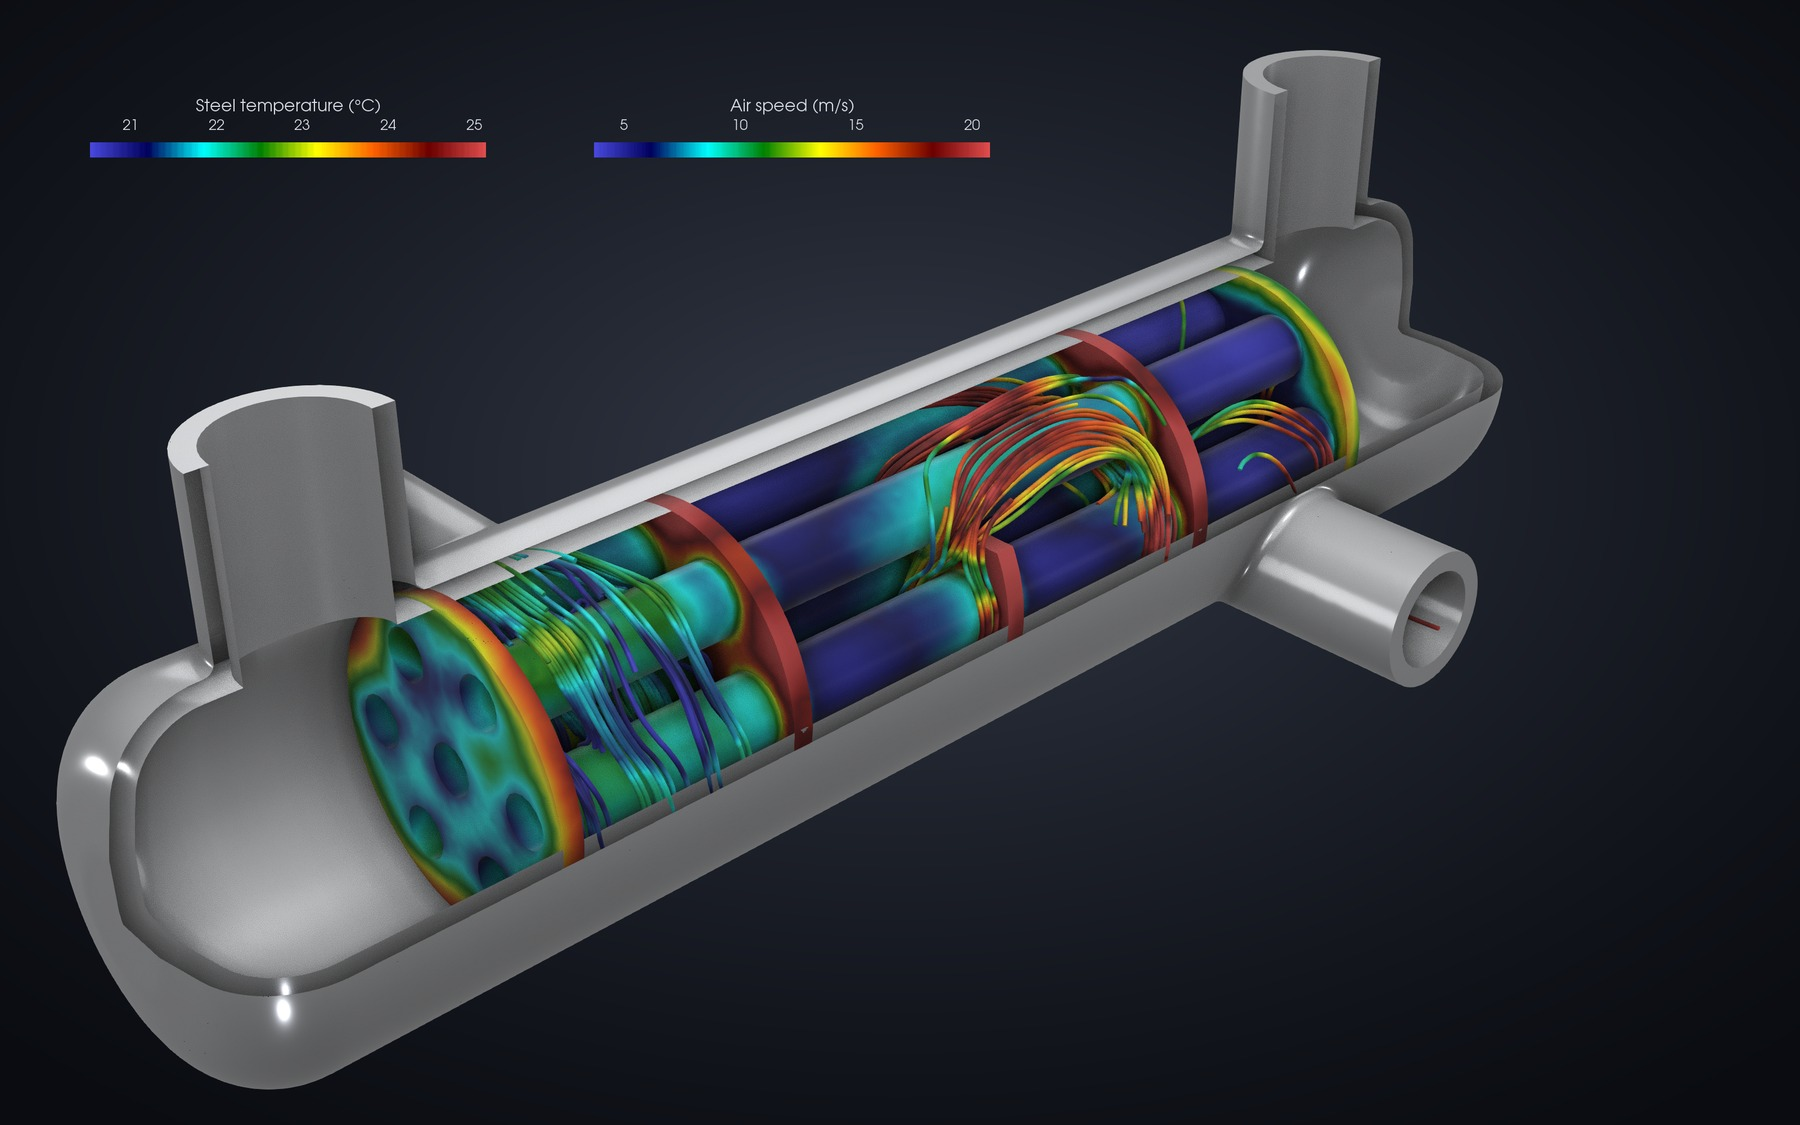
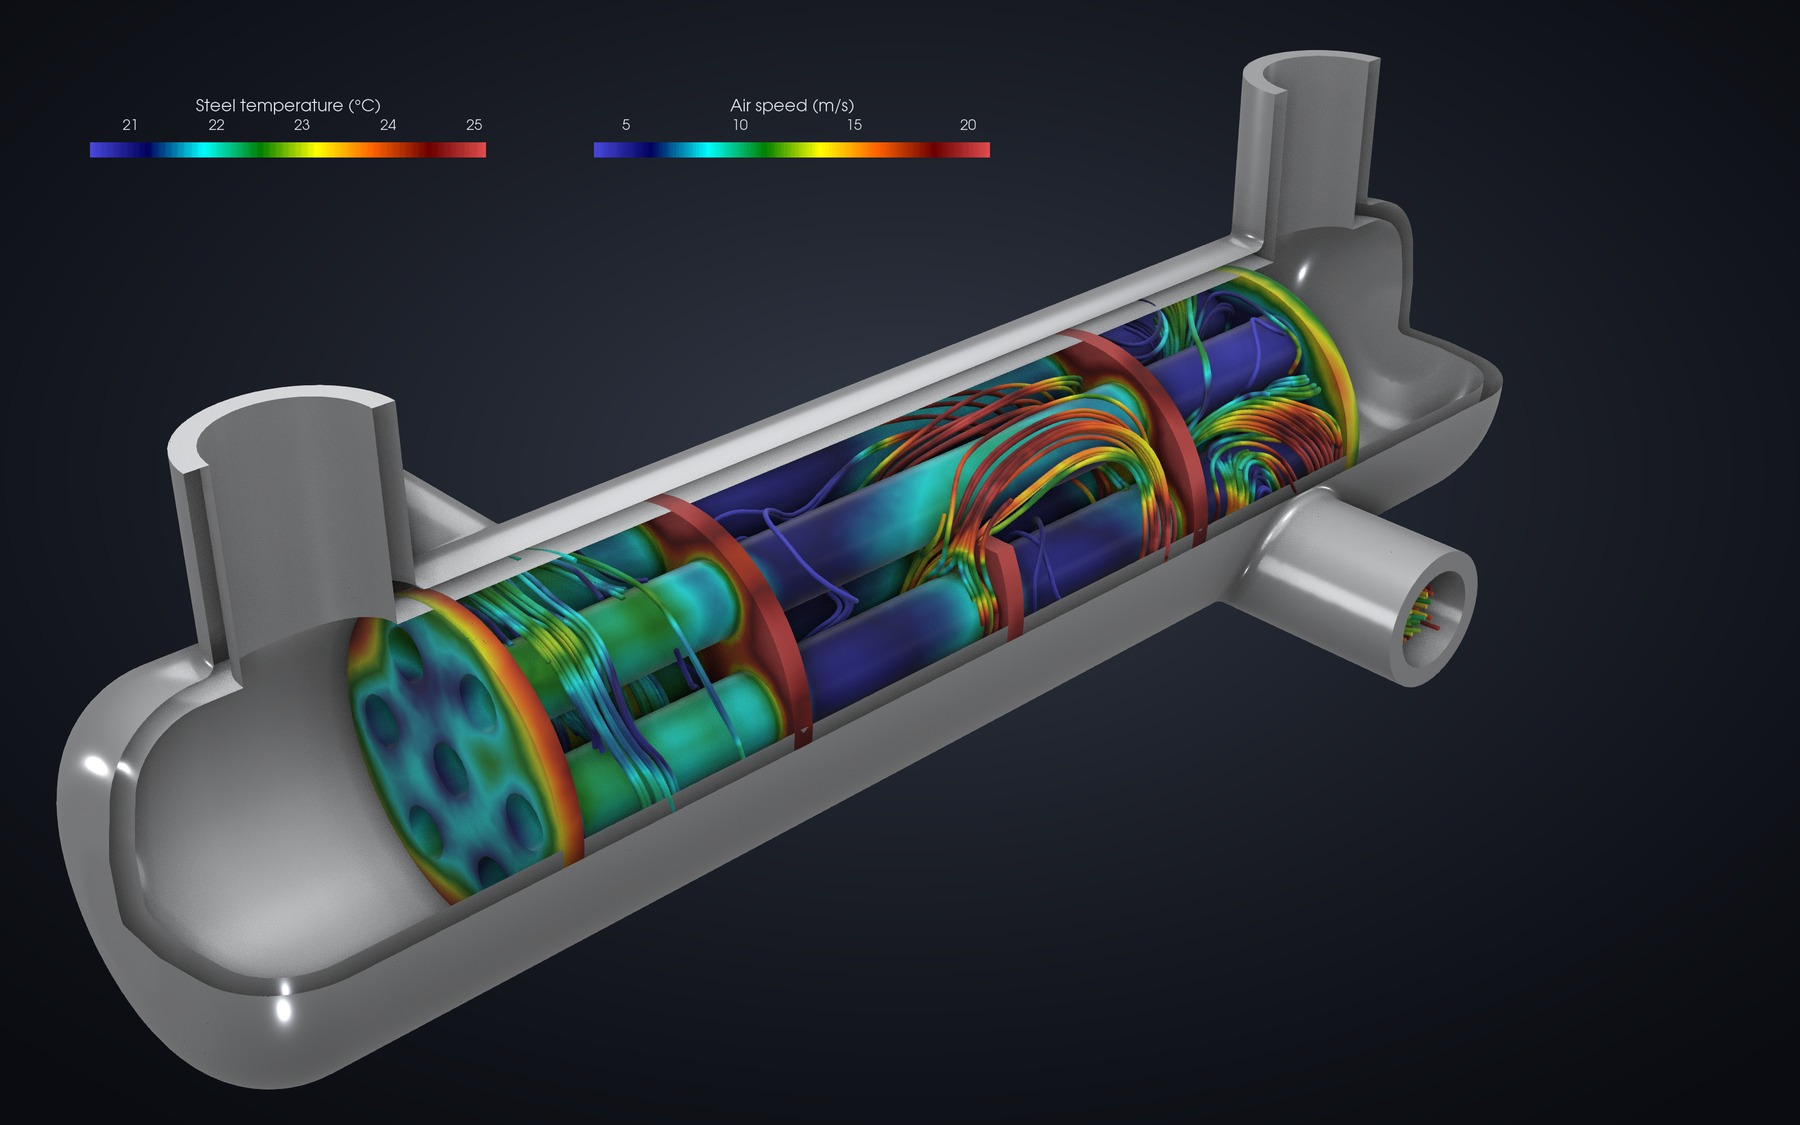
docs: heat exchanger renderings with streamlines from inlet and outlet
The hero and the air path seed half their streamlines in the air inlet
nozzle (traced forwards) and half in the outlet nozzle (traced
backwards), so the lines cover the whole path from inlet to outlet;
seeded at the inlet alone, only a few reached the outlet. The README
teaser is rebuilt from the two images; captions and recipe updated.

diff --git a/examples/applications/shell_tube_hx/render_images.py b/examples/applications/shell_tube_hx/render_images.py
@@ -306,16 +306,26 @@ def save(v, name, size, dark, crop=True):
 
 
 # ---------------------------------------------------------------- streamlines
-def air_streamlines(n_seeds, radius=13.0, x0=-85.0):
-    """Streamlines from a disc of seeds just inside the air inlet nozzle."""
-    seeds = PointSource(Center=[x0, 28.0, 23.0], Radius=radius, NumberOfPoints=n_seeds)
-    st = StreamTracerWithCustomSource(Input=air, SeedSource=seeds)
-    st.Vectors = ["POINTS", "U"]
-    st.IntegrationDirection = "FORWARD"
-    st.MaximumStreamlineLength = 3000.0
-    st.IntegratorType = "Runge-Kutta 4-5"
-    st.MaximumSteps = 20000
-    return st
+def air_streamlines(n_seeds, radius=13.0, x0=85.0):
+    """Streamlines through the shell side: half the seeds on a disc just
+    inside the air inlet nozzle (x = -100 mm), integrated forward, half just
+    inside the outlet nozzle (x = +100 mm), integrated backward. Seeded at the
+    inlet alone, only a few lines find their way around all the baffles to
+    the outlet; the backward lines fill the path from the outlet end, so the
+    picture covers the whole way from inlet to outlet."""
+    from paraview.simple import AppendGeometry
+    lines = []
+    for centre, direction in (([-x0, 28.0, 23.0], "FORWARD"),     # shell_nozzle_front
+                              ([x0, 266.0, -23.0], "BACKWARD")):  # shell_nozzle_rear
+        seeds = PointSource(Center=centre, Radius=radius, NumberOfPoints=n_seeds // 2)
+        st = StreamTracerWithCustomSource(Input=air, SeedSource=seeds)
+        st.Vectors = ["POINTS", "U"]
+        st.IntegrationDirection = direction
+        st.MaximumStreamlineLength = 3000.0
+        st.IntegratorType = "Runge-Kutta 4-5"
+        st.MaximumSteps = 20000
+        lines.append(st)
+    return AppendGeometry(Input=lines)
 
 
 # the hero and the air path share one camera and one size, so that the
@@ -423,7 +433,7 @@ d.DiffuseColor = [0.85, 0.9, 1.0]
 d.Opacity = 0.13
 d = Show(surface(steel_bundle), v)
 steel(d, rough=0.25, aniso=0.3)
-st3 = air_streamlines(1400, radius=14.0, x0=-97.0)
+st3 = air_streamlines(1400, radius=14.0, x0=97.0)
 tb3 = Tube(Input=st3, Radius=0.45, NumberofSides=8)
 sp3 = sp_rng  # the range of the hero: the bars of the two must match in the teaser
 d = Show(tb3, v)

diff --git a/docs/applications/heat-exchangers.md b/docs/applications/heat-exchangers.md
@@ -195,12 +195,15 @@ the water has its own temperature range.
 <img src="../figures/applications/hx_render_hero.jpg" alt="The exchanger with a quarter of the steel housing cut away on a dark background: the tube bundle coloured by the steel temperature from 21 to 25 °C, the tubes cool, the baffles and the tubesheet rims warmest; air streamlines coloured by speed from 5 to 20 m/s wind through the baffle windows" width="800" height="500">
 
 *The steel housing with a quarter cut away; the bundle coloured by the
-steel temperature, the air streamlines from the inlet nozzle by speed.*
+steel temperature, the air streamlines by speed (seeded in the inlet
+nozzle and, traced backwards, in the outlet nozzle).*
 
-<img src="../figures/applications/hx_render_airpath.jpg" alt="The housing as faint glass, the tubes, tubesheets and baffles in steel, and 1 400 streamlines from the inlet nozzle coloured by speed: the jet spreads over the first compartment, passes the baffle windows at up to 20 m/s alternately above and below and leaves through the outlet nozzle" width="800" height="500">
+<img src="../figures/applications/hx_render_airpath.jpg" alt="The housing as faint glass, the tubes, tubesheets and baffles in steel, and 1 400 streamlines coloured by speed, half traced forwards from the inlet nozzle and half backwards from the outlet nozzle: the jet spreads over the first compartment, passes the baffle windows at up to 20 m/s alternately above and below and leaves through the outlet nozzle" width="800" height="500">
 
-*The air path: 1 400 streamlines seeded across the inlet nozzle wind
-around the three baffles to the outlet.*
+*The air path: 1 400 streamlines wind around the three baffles from inlet
+to outlet. Half are seeded in the inlet nozzle and traced forwards, half
+in the outlet nozzle and traced backwards, so the whole path is covered:
+seeded at the inlet alone, only a few lines reach the outlet.*
 
 <img src="../figures/applications/hx_render_cut.jpg" alt="Lengthwise section at x = 0 on a white background: air temperature from 80 to 270 °C hot in the first compartment and coolest in the last, the water in the end chambers and the centre tube on its own range of 19.7 to 20.5 °C, the steel from 21 to 26 °C, thin outlines on the borders of the zones" width="800" height="352">
 

diff --git a/docs/recipes/applications.md b/docs/recipes/applications.md
@@ -91,5 +91,5 @@ The renderings of the application page and the README come from ParaView (6.2, i
     output/hx_counterflow/fields.vtkhdf docs/figures/applications assets/readme
 ```
 
-About 35 s on an iMac. It writes `hx_render_hero.jpg`, `hx_render_cut.jpg`, `hx_render_airpath.jpg` and `hx_render_baffle.jpg`, and with the third argument the README teaser `heat_exchanger_renderings.webp`, the hero and the air path cross-fading every 3.5 s (made by plain `python3`, whose Pillow needs WebP support). The steel is shaded as metal (physically based, metallic and roughness) under a studio environment map that the script draws itself; OSPRay path tracing is not used, because in ParaView 6.2 on macOS its path tracer loses the red channel. Each colour range is the 2nd to 98th percentile of what the picture shows. Change the cameras at the end of each block (`CameraPosition`, `CameraFocalPoint`) for other views and the seed count of `air_streamlines` for more or fewer streamlines.
+About 35 s on an iMac. It writes `hx_render_hero.jpg`, `hx_render_cut.jpg`, `hx_render_airpath.jpg` and `hx_render_baffle.jpg`, and with the third argument the README teaser `heat_exchanger_renderings.webp`, the hero and the air path cross-fading every 3.5 s (made by plain `python3`, whose Pillow needs WebP support). The steel is shaded as metal (physically based, metallic and roughness) under a studio environment map that the script draws itself; OSPRay path tracing is not used, because in ParaView 6.2 on macOS its path tracer loses the red channel. Each colour range is the 2nd to 98th percentile of what the picture shows. Change the cameras at the end of each block (`CameraPosition`, `CameraFocalPoint`) for other views and the seed count of `air_streamlines` for more or fewer streamlines; half of the seeds sit in the inlet nozzle (traced forwards), half in the outlet nozzle (traced backwards), so the lines cover the whole air path.
 
